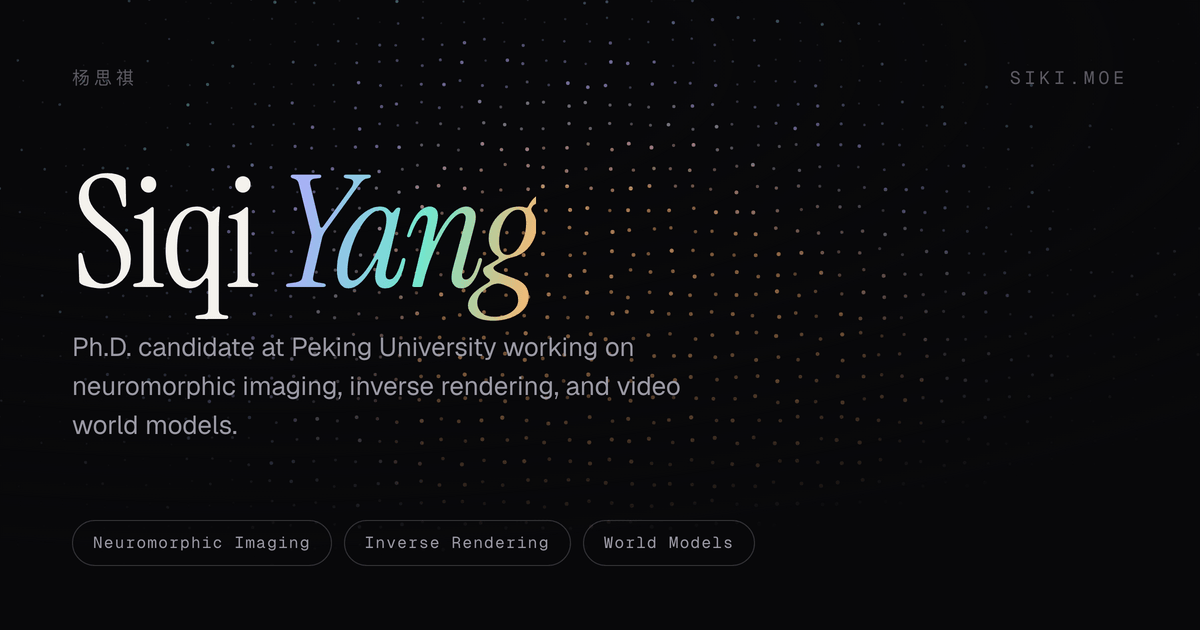
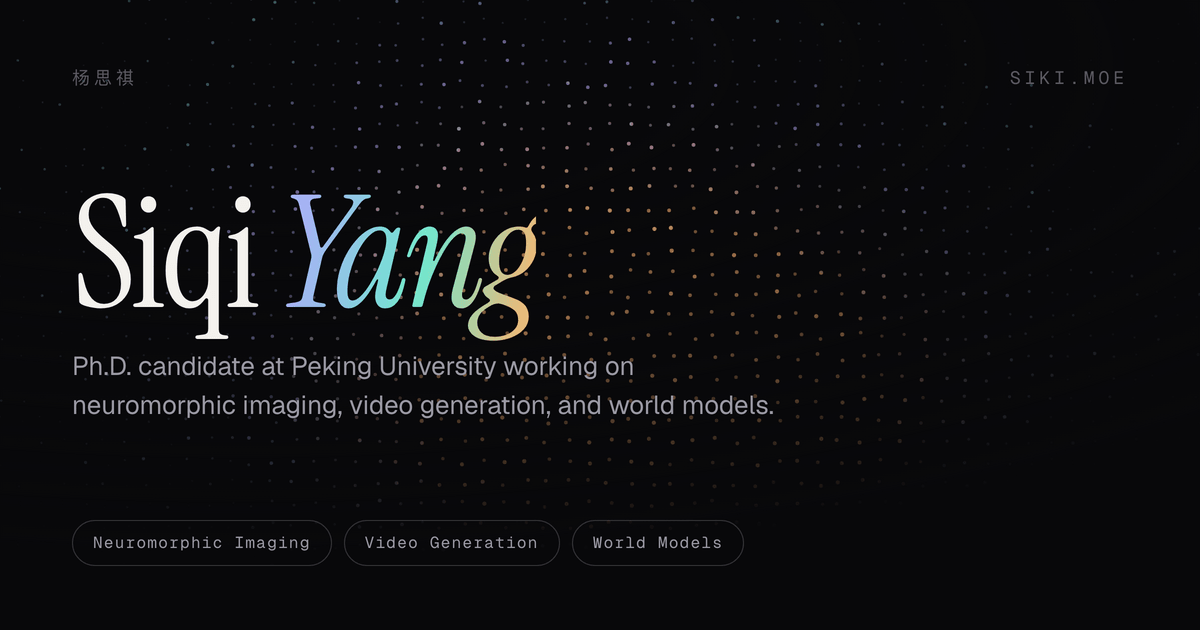
Make video generation one of the three headline topics
Replaces inverse rendering in the focus cards. The same triple appears in
four places — the cards, the hero rotator, the about paragraph and the
site description — so all four move together; leaving any behind would
have the page contradict itself.

The focus lead had to change too. 'Recovering the physical world from the
light it happens to send us' covered imaging and inverse rendering, but
two of the three topics now generate light rather than recover it.

Inverse rendering stays where it is load-bearing: the CVPR 2023
relighting paper, MILO, and EventUPS are all still in the publication
list. This is a change of billing, not of history.

Social card regenerated — it renders the topic names.

Changed region(s): [[0.0617, 0.2714, 0.6475, 0.6937], [0.3083, 0.8444, 0.6167, 0.9048]]

diff --git a/src/data/profile.ts b/src/data/profile.ts
@@ -102,11 +102,11 @@ export const profile: Profile = {
   // Mirrors the bio on https://github.com/yousiki.
   tagline: 'PhD student by day. Vibe coder by night.',
 
-  rotatingWords: ['spike cameras', 'inverse rendering', 'world models', 'light & pixels'],
+  rotatingWords: ['spike cameras', 'video generation', 'world models', 'light & pixels'],
 
   bio: [
     'I teach cameras to see what human eyes cannot — microsecond-scale light, recovered as colour, motion and geometry.',
-    'My research sits between computational photography and computer vision: neuromorphic **spike cameras** that fire asynchronously at tens of thousands of frames per second, **inverse rendering** that pulls material and illumination back out of a photograph, and generative **world models** that render playable video.',
+    'My research sits between computational photography and computer vision: neuromorphic **spike cameras** that fire asynchronously at tens of thousands of frames per second, **video generation** steered by camera paths and audio rather than prose alone, and **world models** that hold a generated world still enough for more than one person to walk around in.',
     'Before the Ph.D. I spent a decade in competitive programming, which is probably why I still enjoy a well-shaped abstraction more than a well-tuned hyperparameter.',
   ],
 
@@ -156,9 +156,9 @@ export const profile: Profile = {
     },
     {
       index: '02',
-      title: 'Inverse Rendering',
+      title: 'Video Generation',
       blurb:
-        'Given a photograph, recover the scene that made it — geometry, reflectance, and the light that fell on it — so the whole thing can be relit and re-photographed.',
+        'Diffusion models that make video you can steer rather than only prompt — 360° panoramas with no seam at the poles, and edits that stay locked to the audio and to the frame before.',
     },
     {
       index: '03',

diff --git a/src/data/site.ts b/src/data/site.ts
@@ -10,7 +10,7 @@ export const SITE_TITLE = 'Siqi Yang — Computational Photography & Vision';
 export const SITE_SHORT_TITLE = 'Siqi Yang';
 
 export const SITE_DESCRIPTION =
-  'Ph.D. candidate at Peking University working on neuromorphic imaging, inverse rendering, and video world models.';
+  'Ph.D. candidate at Peking University working on neuromorphic imaging, video generation, and world models.';
 
 export const SITE_LOCALE = 'en';
 
